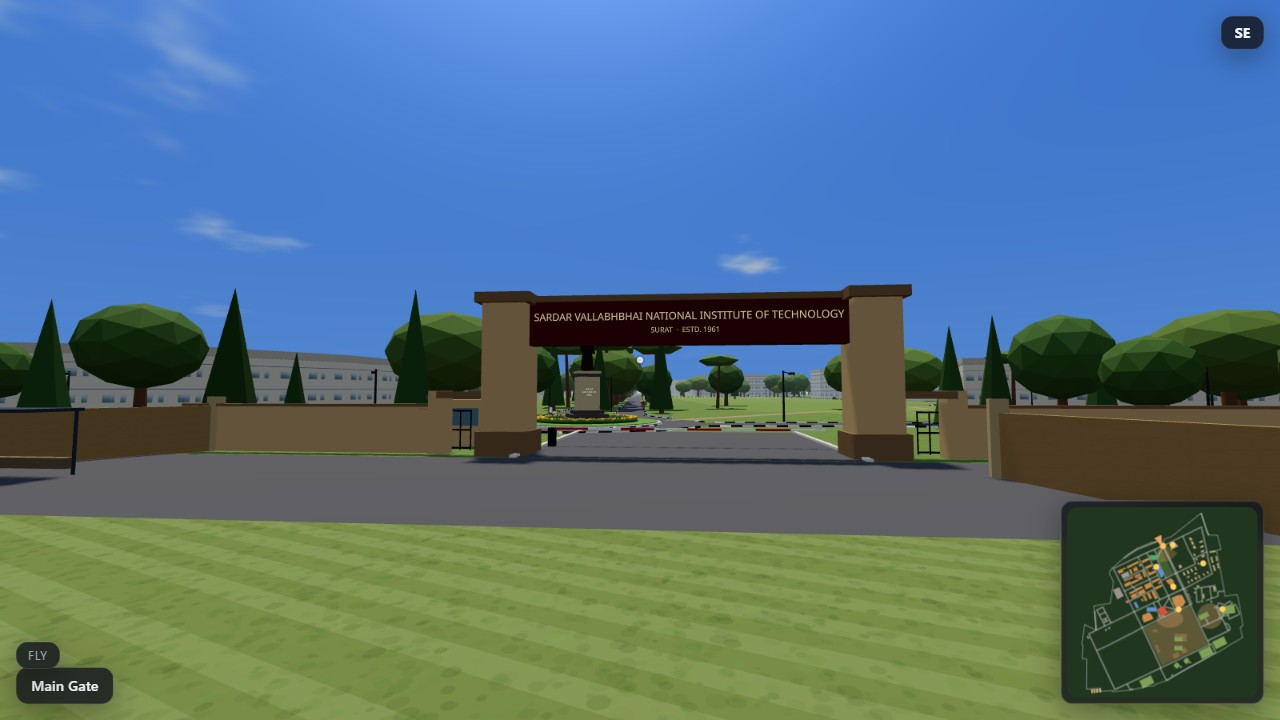
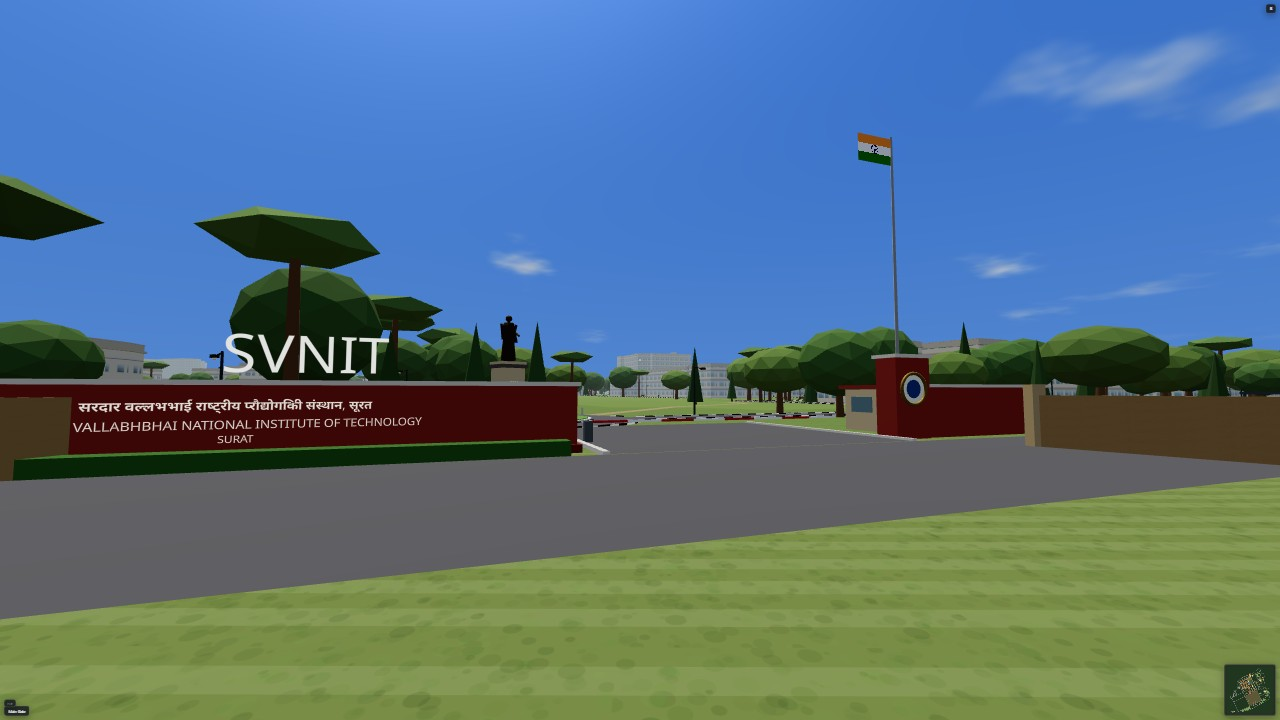
docs: main-gate screenshot of the photo-matched entrance

diff --git a/README.md b/README.md
@@ -15,7 +15,7 @@ Three buildings are enterable with hand-built interiors: the **Central
 Library**, a **Lecture Theatre (LT-2)**, and the **Administration Building
 lobby**.
 
-![Main gate at Ichchhanath, with the Sardar Patel statue beyond](docs/screenshots/main-gate.jpg)
+![Main gate at Ichchhanath, modelled on the institute's own photographs](docs/screenshots/main-gate.jpg)
 ![The campus from above](docs/screenshots/campus-aerial-3.jpg)
 ![Staff quarters colony](docs/screenshots/staff-quarters.jpg)
 ![Hostels at night](docs/screenshots/hostels-night.jpg)
